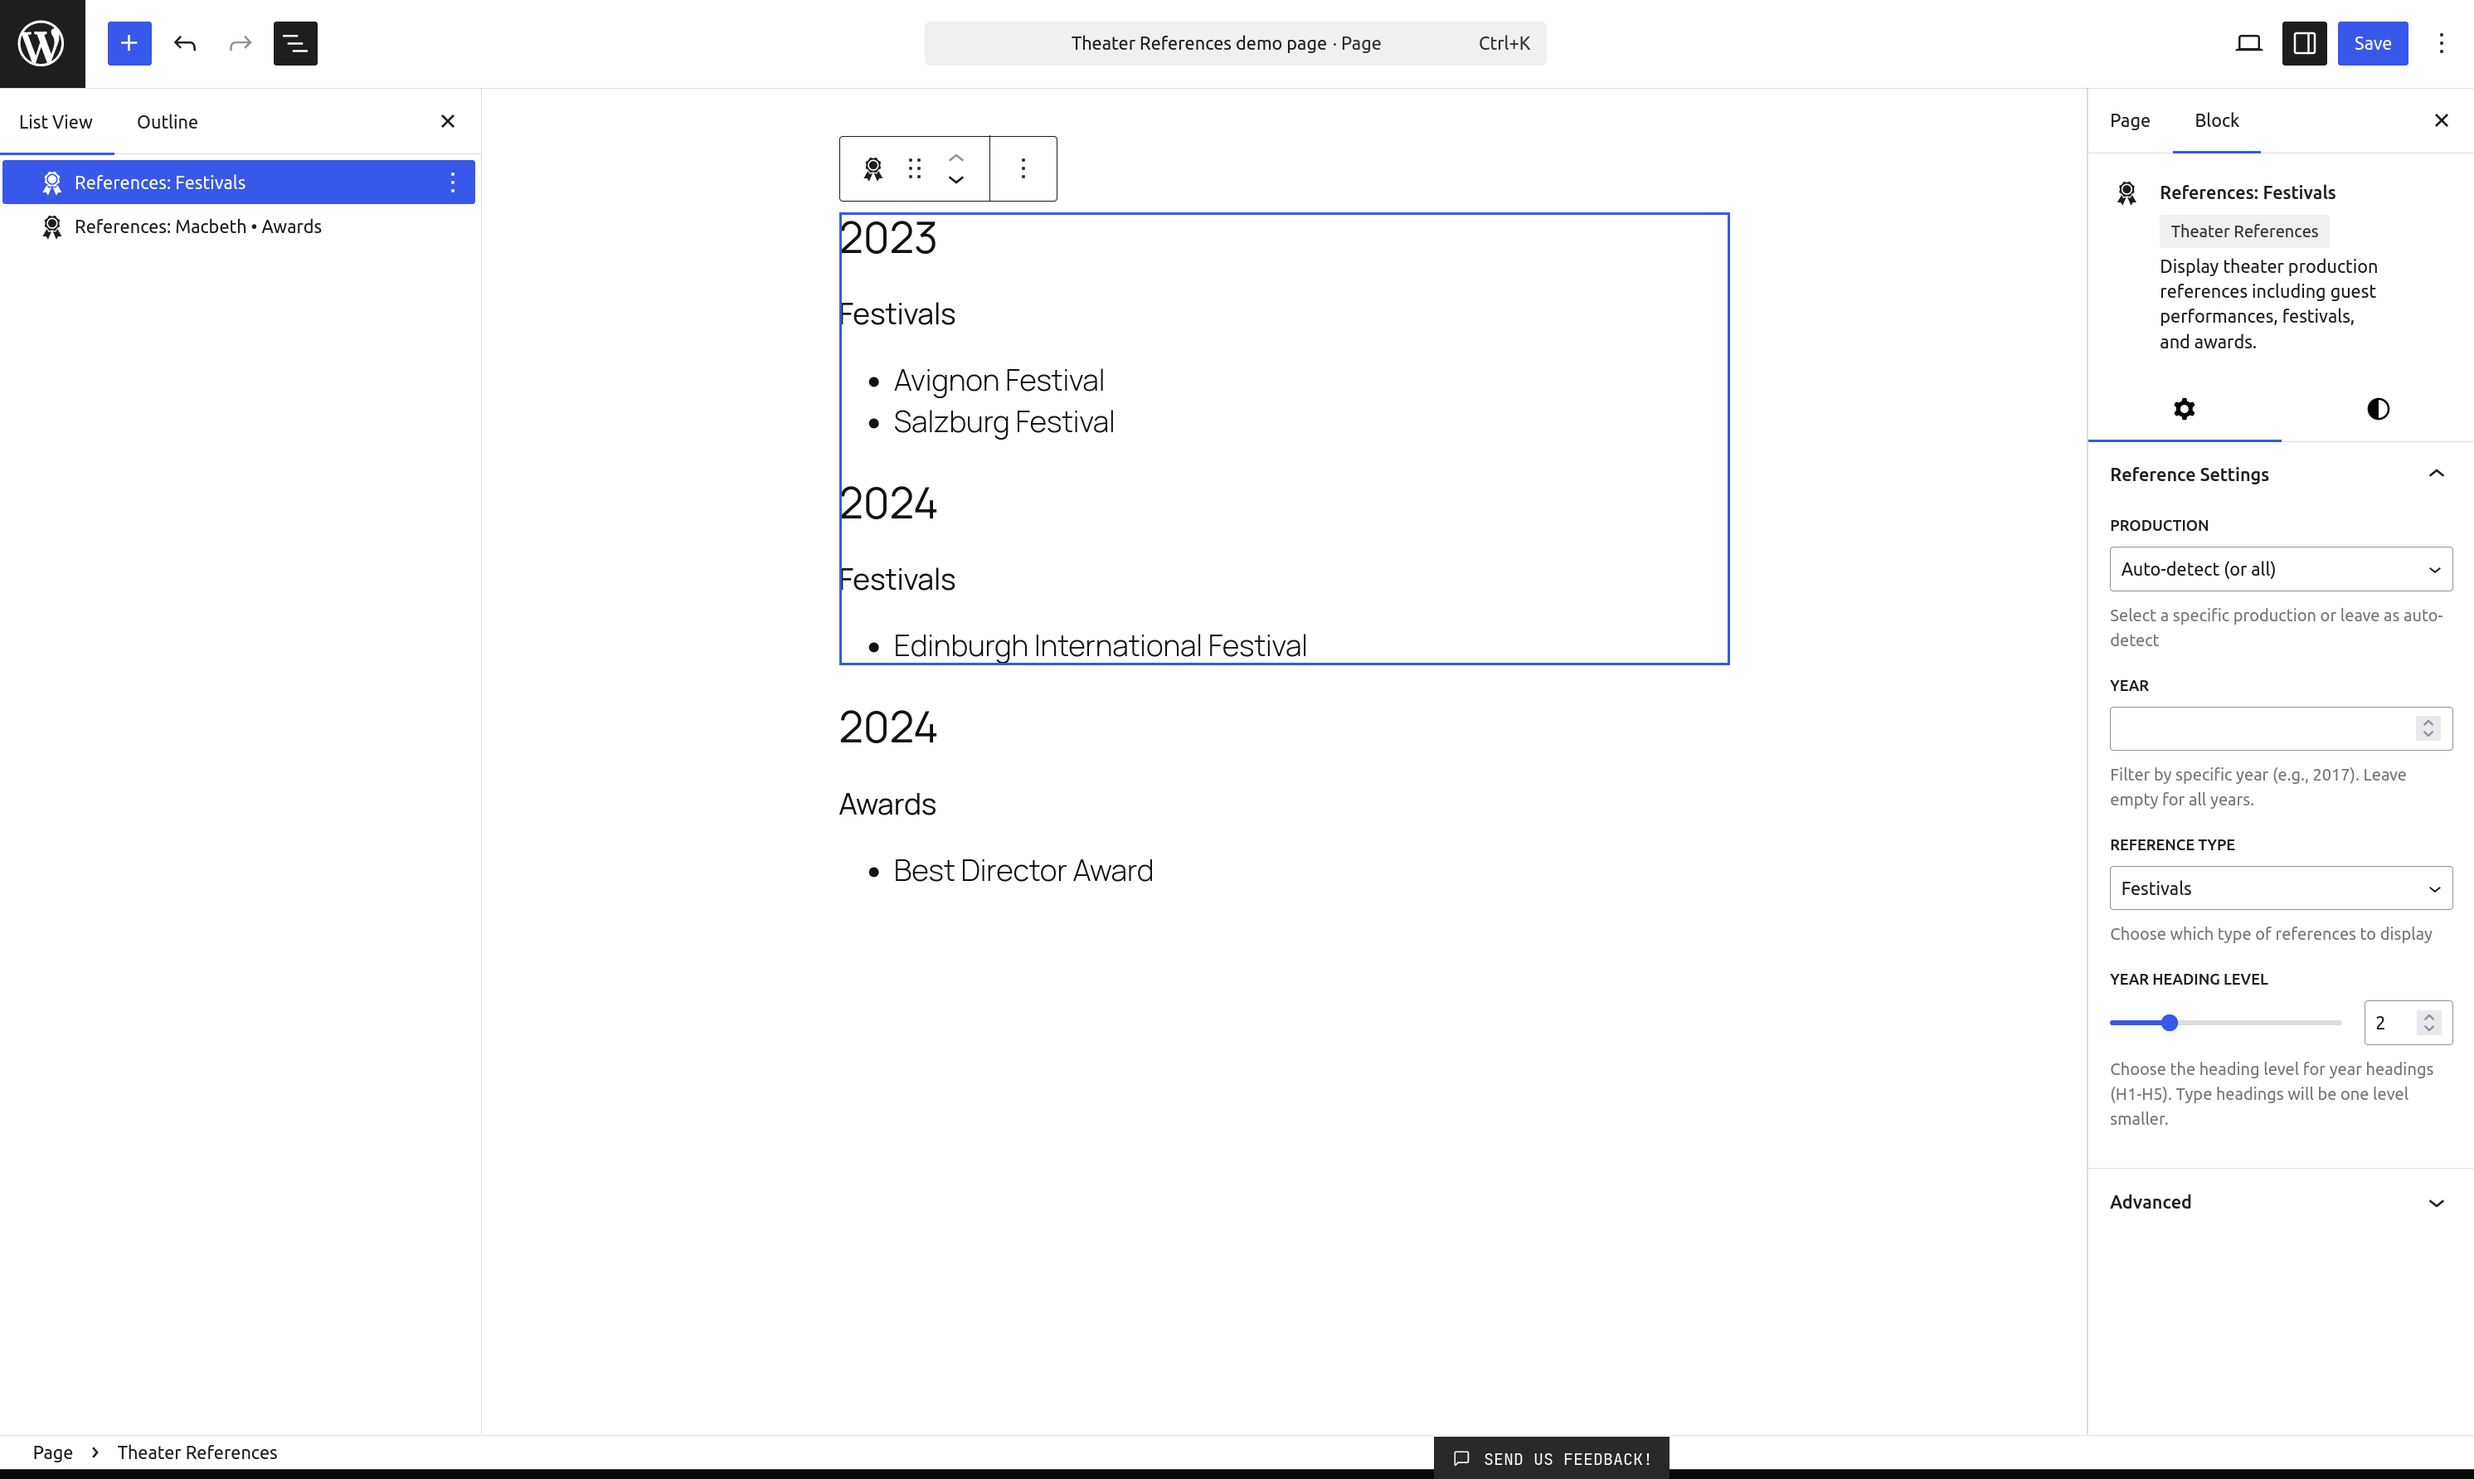
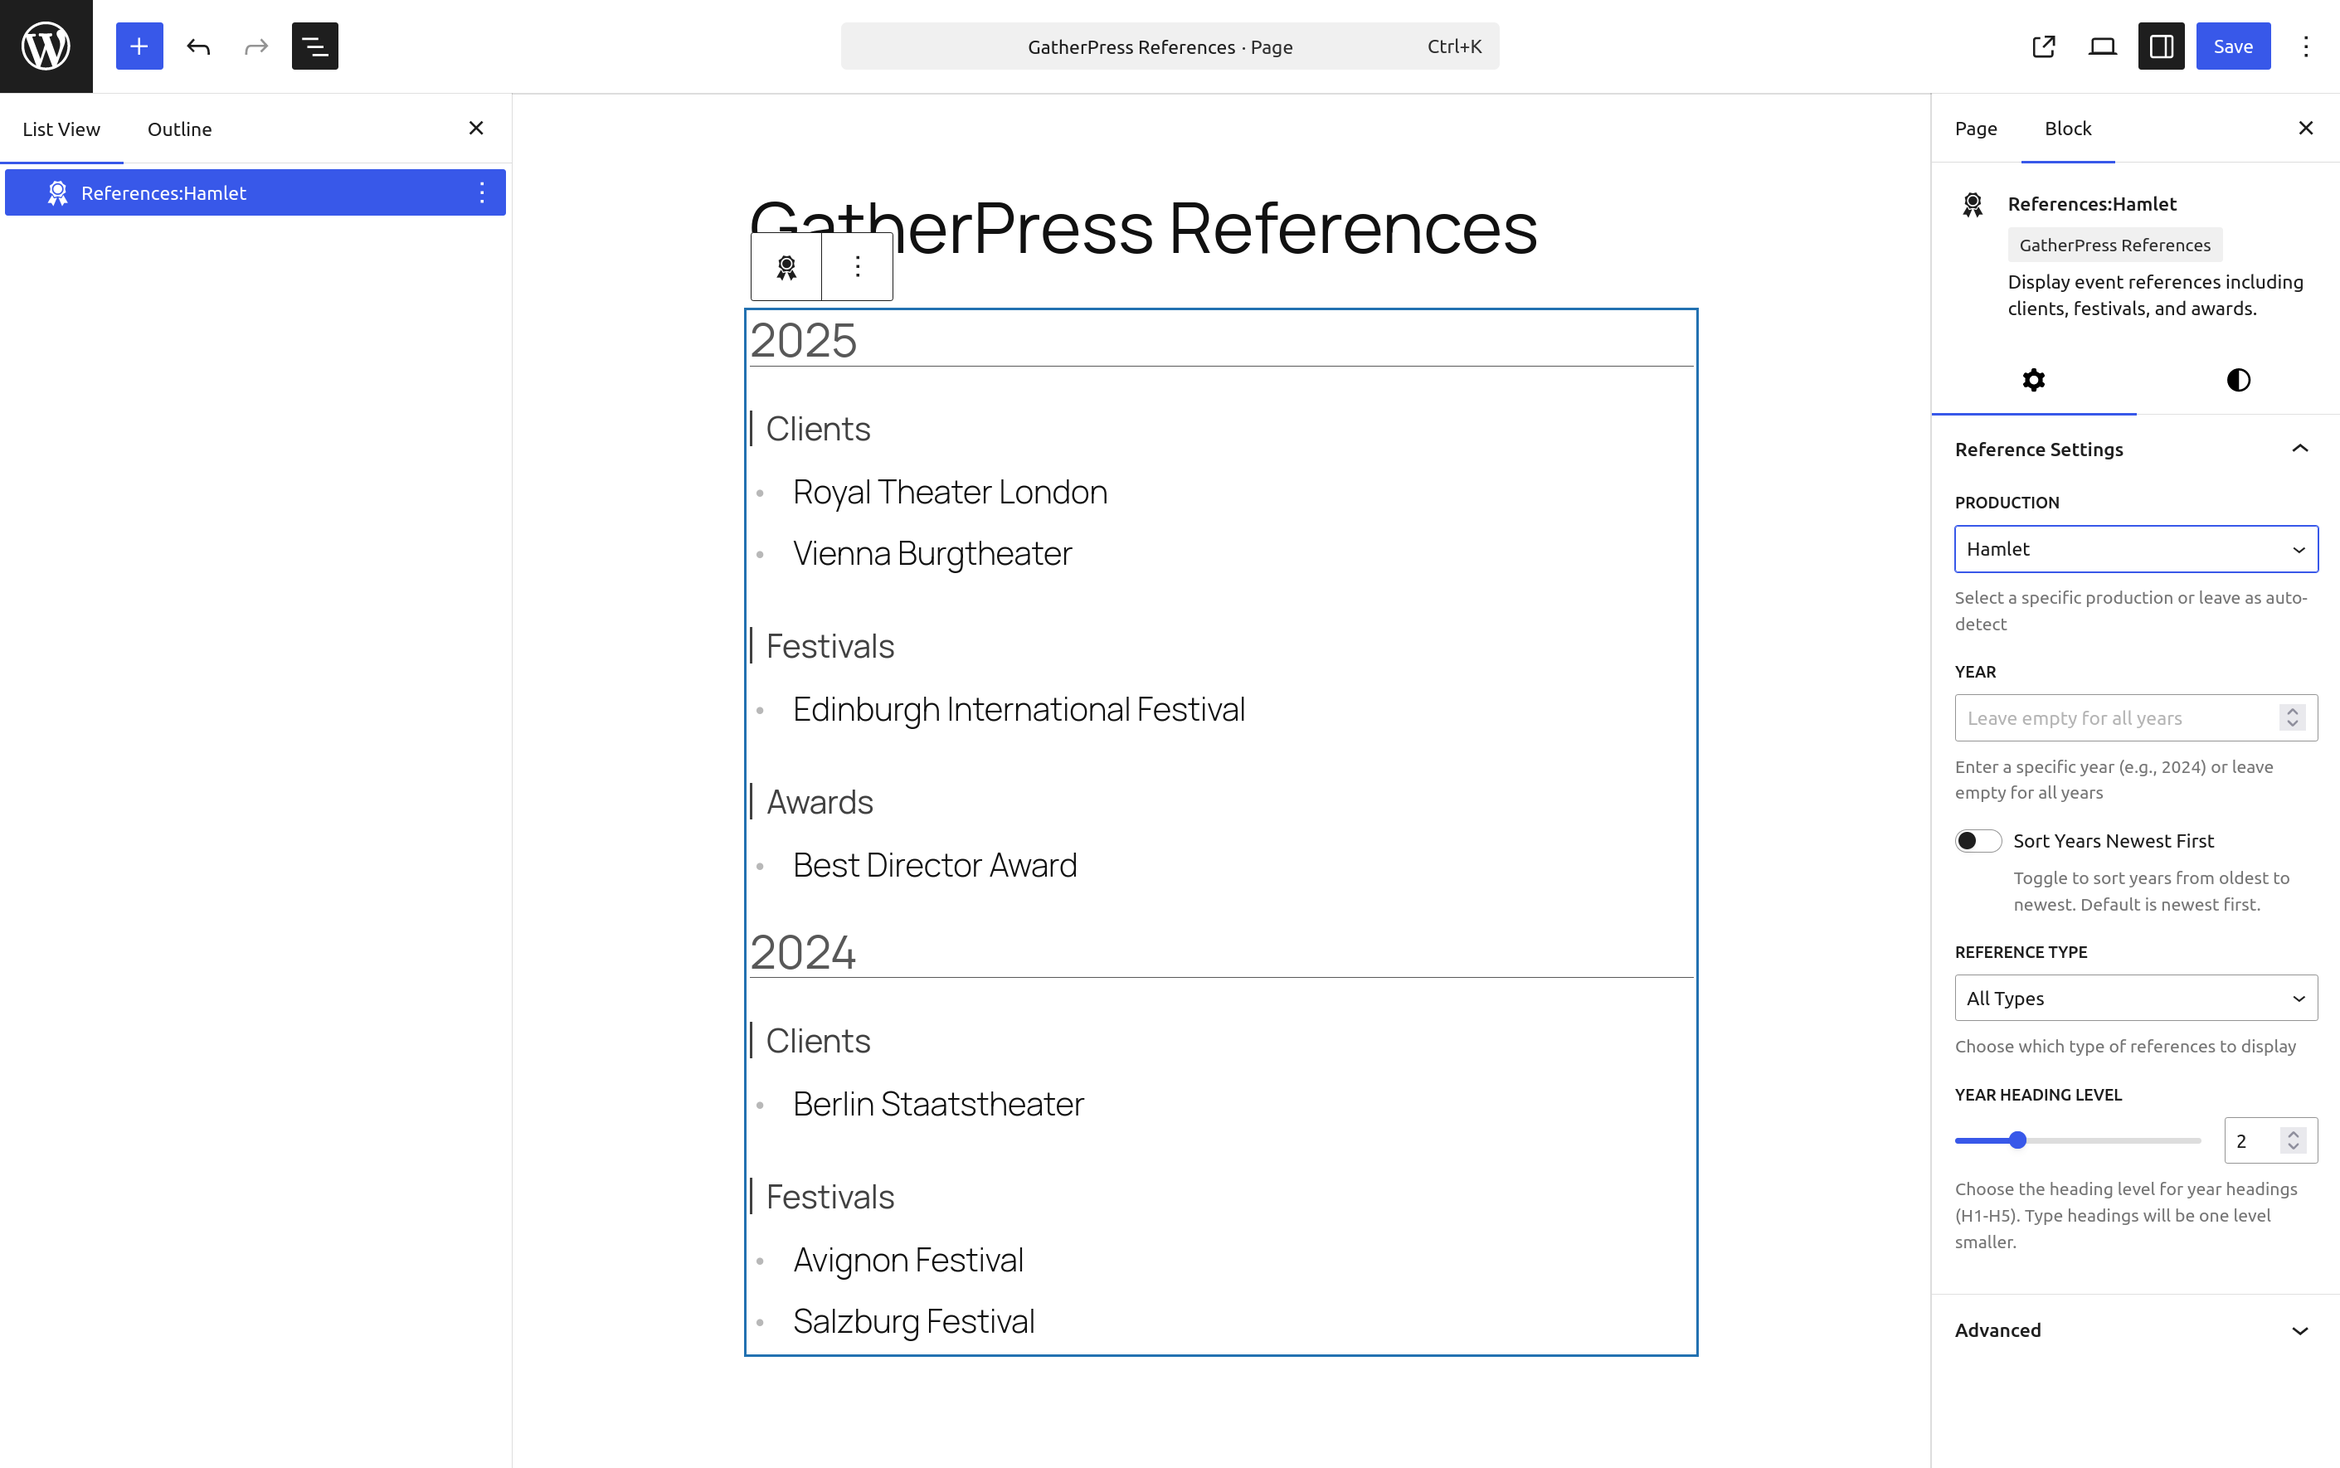
Update README & screessnhots

diff --git a/plugin.php b/plugin.php
@@ -1,7 +1,7 @@
 <?php
 /**
  * Plugin Name:       GatherPress References
- * Description:       Display production references including clients, festivals, and awards in a structured, chronological format.
+ * Description:       Display production references including clients, festivals and awards in a structured, chronological format.
  * Version:           0.1.0
  * Requires at least: 6.1
  * Requires PHP:      7.4

diff --git a/README.md b/README.md
@@ -10,9 +10,7 @@
 
 [![Playground Demo Link](https://img.shields.io/badge/WordPress_Playground-blue?logo=wordpress&logoColor=%23fff&labelColor=%233858e9&color=%233858e9)](https://playground.wordpress.net/?blueprint-url=https://raw.githubusercontent.com/carstingaxion/gatherpress-references/main/.wordpress-org/blueprints/blueprint.json)
 
-Display production references including clients, festivals, and awards in a structured, chronological format.
-
-![](assets/screenshot-1.png)
+Display production references including clients, festivals and awards in a structured, chronological format.
 
 ## Description
 
@@ -20,32 +18,7 @@ The **GatherPress References** block displays a generated list of references fro
 
 This plugin requires the GatherPress plugin to be installed and activated. It works with GatherPress events (`gatherpress_event` post type) to provide specialized reference management for e.g. theater productions.
 
-### Key features
-
-- Seamlessly integrates with GatherPress events
-- Uses custom taxonomies for efficient data management and querying
-- Automatic context detection when used within a production page
-- Filter by specific production (by ID)
-- Filter by year for annual reviews
-- Filter by reference type (clients, festivals, awards, or all)
-- Nested list output organized by year and reference type
-- Native WordPress term management UI
-- Better performance through taxonomy-based queries
-
 Perfect for creating dynamic reference pages, production portfolios, and annual summaries of achievements.
-
----
-
-## Installation
-
-1. **Install and activate GatherPress plugin first** (required dependency)
-2. Upload the plugin files to the `/wp-content/plugins/gatherpress-references` directory.
-3. Activate the plugin through the **Plugins** screen in WordPress.
-4. The plugin will create three custom taxonomies: **Clients**, **Festivals**, and **Awards**.
-5. Add terms to these taxonomies via the **Events** admin menu.
-6. Assign taxonomy terms to event posts.
-7. Insert the block into any page, post, or production content.
-8. Use the block settings to filter by production, year, or reference type.
 
 ---
 
@@ -62,6 +35,8 @@ Perfect for creating dynamic reference pages, production portfolios, and annual 
 
 **Result:** Displays all clients, festivals, and awards for that production across all years, organized chronologically.
 
+![Show the editing Interface for the block for: All References for a Specific Production](assets/screenshot-1.png)
+
 ---
 
 ### Example 2: Annual Report Page
@@ -70,10 +45,12 @@ Perfect for creating dynamic reference pages, production portfolios, and annual 
 
 **Settings:**
 - Production: Auto-detect (or all)
-- Year: 2024
-- Reference Type: All Types  
+- Year: Enter specific year (e.g., 2024)
+- Reference Type: All Types
 
 **Result:** Shows all references from 2024 regardless of production, grouped by type.
+
+![Shows the editing Interface for the block for: All references from 2024 regardless of production, grouped by type.](assets/screenshot-2.png)
 
 ---
 
@@ -88,6 +65,8 @@ Perfect for creating dynamic reference pages, production portfolios, and annual 
 
 **Result:** Lists all awards received across all productions and years, organized by year.
 
+![Shows the editing Interface for the block for: All awards received across all productions and years, organized by year.](assets/screenshot-3.png)
+
 ---
 
 ### Example 4: Production Awards for Specific Year
@@ -95,11 +74,13 @@ Perfect for creating dynamic reference pages, production portfolios, and annual 
 **Use Case:** Show what a production achieved in a particular year  
 
 **Settings:**
-- Production: Select specific production
-- Year: 2023
-- Reference Type: Awards  
+- Production: Select specific production (e.g., *Macbeth*)
+- Year: Enter specific year (e.g., 2023)
+- Reference Type: Awards
 
-**Result:** Displays only awards that specific production received in 2023.
+**Result:** Displays only awards that Macbeth received in 2023.
+
+![Shows the editing Interface for the block for: Displays only awards that Macbeth received in 2023.](assets/screenshot-4.png)
 
 ---
 
@@ -113,6 +94,8 @@ Perfect for creating dynamic reference pages, production portfolios, and annual 
 - Reference Type: Festivals  
 
 **Result:** Complete chronological list of festival participations across all productions.
+
+![Shows the editing Interface for the block for: A Complete chronological list of festival participations across all productions.](assets/screenshot-5.png)
 
 ---
 
@@ -140,6 +123,19 @@ This matrix shows all possible filter combinations and their expected behaviors:
 
 ---
 
+## Installation
+
+1. **Install and activate GatherPress plugin first** (required dependency)
+2. Upload the plugin files to the `/wp-content/plugins/gatherpress-references` directory.
+3. Activate the plugin through the **Plugins** screen in WordPress.
+4. The plugin will register three custom taxonomies: **Clients**, **Festivals**, and **Awards**.
+5. Add terms to these taxonomies via the **Events** admin menu.
+6. Assign taxonomy terms to event posts.
+7. Insert the block into any post or template.
+8. Use the block settings to filter by production, year, or reference type.
+
+---
+
 ## Frequently Asked Questions
 
 ### Does this plugin work without GatherPress?
@@ -148,22 +144,13 @@ No, this plugin is specifically designed as a GatherPress add-on and requires Ga
 
 ### What taxonomies does this plugin create?
 
-The plugin creates three custom taxonomies associated with the GatherPress `gatherpress_event` post type:
+The plugin registers four custom taxonomies associated with the GatherPress `gatherpress_event` post type:
+- `gatherpress-productions`: Hierarchical taxonomy for productions
 - `_gatherpress-client`: Clients
 - `_gatherpress-festival`: Festival participations
 - `_gatherpress-award`: Awards received
 
 These work alongside GatherPress's existing event taxonomies.
-
-### Why use taxonomies instead of post meta?
-
-Taxonomies offer several advantages:
-- Better query performance for filtering
-- Reusable terms across multiple events
-- Native WordPress UI for term management
-- More semantic data structure
-- Better for faceted search and filtering
-- Seamless integration with GatherPress event queries
 
 ### Can I show only awards for a specific production? =
 
@@ -171,7 +158,7 @@ Yes. Use the block settings to select a specific production and set the type fil
 
 ### Does it work automatically on production pages?
 
-Yes. When placed on a production archive or single page, the block automatically detects the production context and shows only its references.
+Yes. When placed on a production term archive, the block automatically detects the production context and shows only its references.
 
 ### How do I customize the block's appearance?
 
@@ -188,13 +175,16 @@ You can also use custom CSS:
 - `.references-year` - Year headings
 - `.references-type` - Type headings
 - `.references-list` - Reference lists
-- `.no-references` - Empty state message
 
 ### Can I change the heading levels?
 
 Yes. The block includes a **Year Heading Level** control in the block settings. You can set year headings to **H1–H5**, and type headings will automatically be one level smaller.
 
-### How do I add demo data for testing?
+### Can I change the year sort order?
+
+Yes. The block includes a **Sort Years** toggle control. By default, years are sorted newest first (descending). Toggle it on to sort from oldest to newest (ascending). This control only appears when showing all years (no specific year filter).
+
+= How do I add demo data for testing? =
 
 Go to **Events → Demo Data** in the WordPress admin and click **Generate Demo Data** to create:
 
@@ -216,10 +206,11 @@ No, this plugin only adds optional taxonomies to GatherPress events. Your existi
 
 ## Screenshots
 
-1. Block editor view with inspector controls
-2. Frontend display showing references grouped by year
-3. Filtered view showing only awards
-4. Term management interface for clients, festivals, and awards
+1. Show All References for a Specific Production
+2. Annual Report Page
+3. Awards Page
+4. Production Awards for Specific Year
+5. Festival Participation History
 
 ---
 
@@ -246,17 +237,22 @@ register_taxonomy('_gatherpress-award', 'gatherpress_event', [...]);
     "default": 0
   },
   "year": {
-    "type": "string",
-    "default": ""
+    "type": "number",
+    "default": 0
   },
   "referenceType": {
     "type": "string",
     "default": "all",
-    "enum": ["all", "_gatherpress-client", "_gatherpress-festival", "_gatherpress-award"]
+    "enum": ["all", "ref_client", "ref_festival", "ref_award"]
   },
   "headingLevel": {
     "type": "number",
     "default": 2
+  },
+  "yearSortOrder": {
+    "type": "string",
+    "default": "desc",
+    "enum": ["asc", "desc"]
   }
 }
 ```
@@ -440,21 +436,6 @@ add_filter( 'gatherpress_references_type_labels', function( $labels ) {
 4. **No Found Rows**: Set `'no_found_rows' => true` to skip pagination count
 5. **Term Cache**: Enable term caching with `'update_post_term_cache' => true`
 
-### Debug Mode
-
-Enable debug output in `render.php`:
-
-```php
-private bool $debug = true; // Set to true
-```
-
-This will output:
-- Filter parameters received
-- Query arguments before execution
-- SQL query generated
-- Number of posts found
-- Term assignment details
-- Final data structure
 
 ### Theme.json Integration
 
@@ -498,14 +479,14 @@ The block fully supports WordPress theme.json:
 
 ### 0.1.0
 * Initial release
-* Custom taxonomies for clients, festivals, and awards
+* Custom taxonomies for clients, festivals and awards
 * Support for production filtering
 * Support for year filtering
 * Support for reference type filtering
+* Year sort order control (ascending/descending)
 * Automatic production context detection
 * Demo data generator
 * Comprehensive theme.json support
 * Optimized caching system
-* Debug mode for development
 * Dynamic heading levels
 * Filter hooks for extensibility
